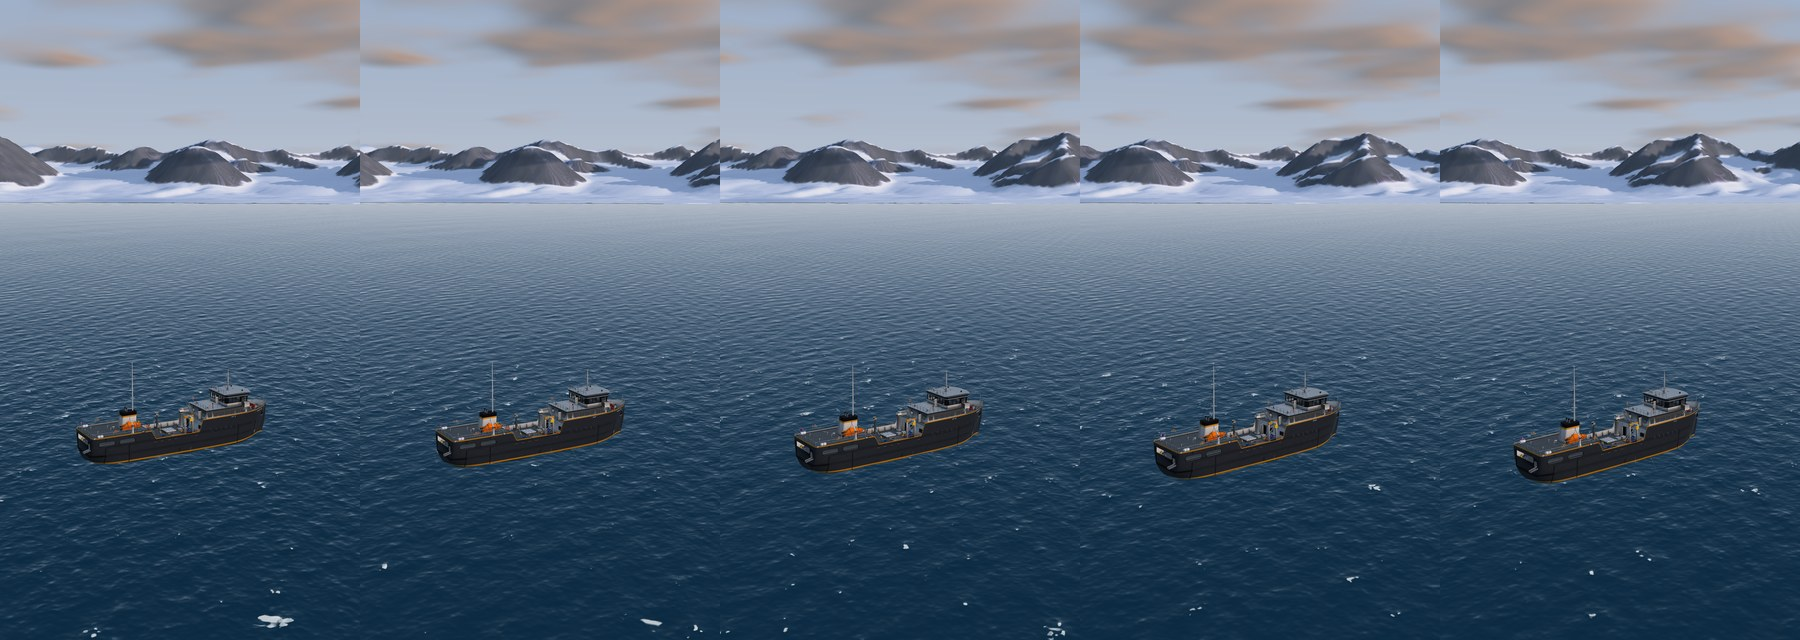
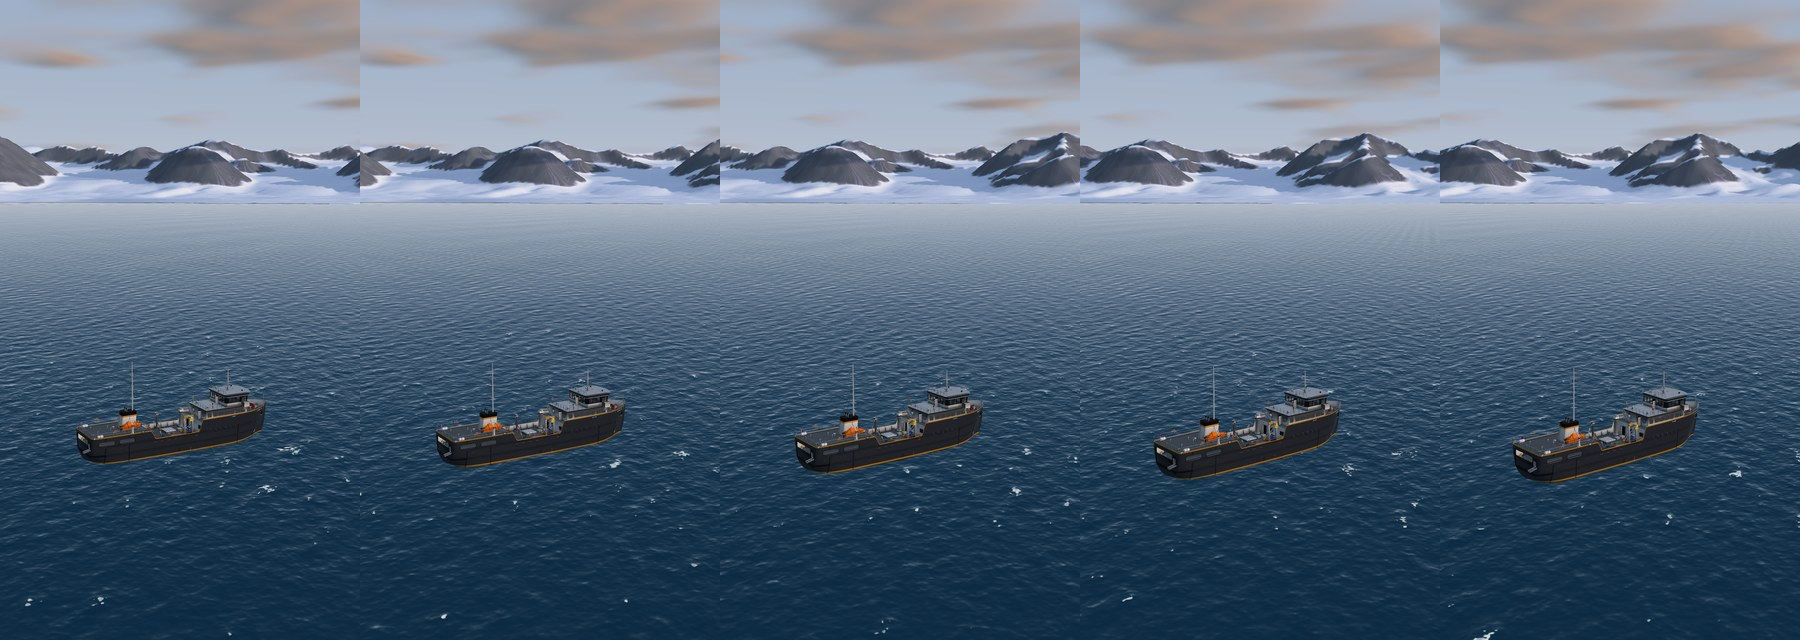
Trailer m3: Finnsnes fjernet, snøkrabbeklippet fryser ikke, tekst leselig mot lys himmel (Jonas 16.11.2026)
- 18b var 3,5 s i en plass på 5,0 s (siste bildet sto i 1,8 s); nå 5,6 s
- stedsnavnet Finnsnes ut av begge klippekartene
- titles.py: sterkere mørk glød rundt bokstavene, mørkere felt bak, felt også bak taglinja

diff --git a/trailer/tools/titles.py b/trailer/tools/titles.py
@@ -42,9 +42,9 @@ def page(body, w, h, bg='transparent', pad=90):
 @font-face{{font-family:SS4;src:url(data:font/ttf;base64,{f}) format('truetype');}}
 html,body{{margin:0;width:{w}px;height:{h}px;background:{bg};overflow:hidden}}
 .t{{position:absolute;left:0;right:0;text-align:center;font-family:SS4;color:#f7f4ee;
-  text-shadow:0 1px 2px rgba(0,0,0,.28),0 0 22px rgba(0,0,0,.22)}}
+  text-shadow:0 0 2px rgba(0,0,0,.8),0 1px 3px rgba(0,0,0,.7),0 0 12px rgba(0,0,0,.6),0 0 30px rgba(0,0,0,.5),0 0 60px rgba(0,0,0,.35)}}   /* readable on bright sky and sun (Jonas 16.11.2026) */
 .cap{{text-transform:uppercase;letter-spacing:.42em;text-indent:.42em}}
-.band{{position:absolute;left:-10%;right:-10%;background:radial-gradient(ellipse 50% 50% at 50% 50%, rgba(11,23,32,.62), rgba(11,23,32,.32) 55%, rgba(11,23,32,0) 100%)}}
+.band{{position:absolute;left:-10%;right:-10%;background:radial-gradient(ellipse 50% 50% at 50% 50%, rgba(8,16,24,.74), rgba(8,16,24,.45) 55%, rgba(11,23,32,0) 100%)}}
 .c{{padding:0 {pad}px}}
 .rule{{position:absolute;left:50%;height:2px;background:rgba(247,244,238,.75);box-shadow:0 0 8px rgba(0,0,0,.25)}}
 </style></head><body>{body}</body></html>"""
@@ -75,7 +75,7 @@ async def main():
                                       f'<div class="t cap" style="top:{ys}px;font-size:{int(70 * k)}px">{txt}</div>'
                                       f'<div class="rule" style="top:{ys + int(108 * k)}px;width:{rw}px;margin-left:{-rw // 2}px"></div>'
                                       + (f'<div class="t cap" style="top:{ys + int(130 * k)}px;font-size:{int(28 * k)}px;letter-spacing:.24em;text-indent:.24em">{sub}</div>' if sub else ''), w, h))
-            await shot('tag', page(f'<div class="t cap" style="top:{int(h * 0.125)}px;font-size:{int(30 * k)}px;letter-spacing:.2em;text-indent:.2em">{T["tag"]}</div>', w, h))
+            await shot('tag', page(f'<div class="band" style="top:{int(h * 0.125) - int(70 * k)}px;height:{int(190 * k)}px"></div><div class="t cap" style="top:{int(h * 0.125)}px;font-size:{int(30 * k)}px;letter-spacing:.2em;text-indent:.2em">{T["tag"]}</div>', w, h))
         for key, txt in ({} if T else PLACES).items():
             rw = int(70 * k)
             await shot(key, page(f'<div class="t cap" style="top:{y}px;font-size:{int(62 * k)}px">{txt}</div>'
